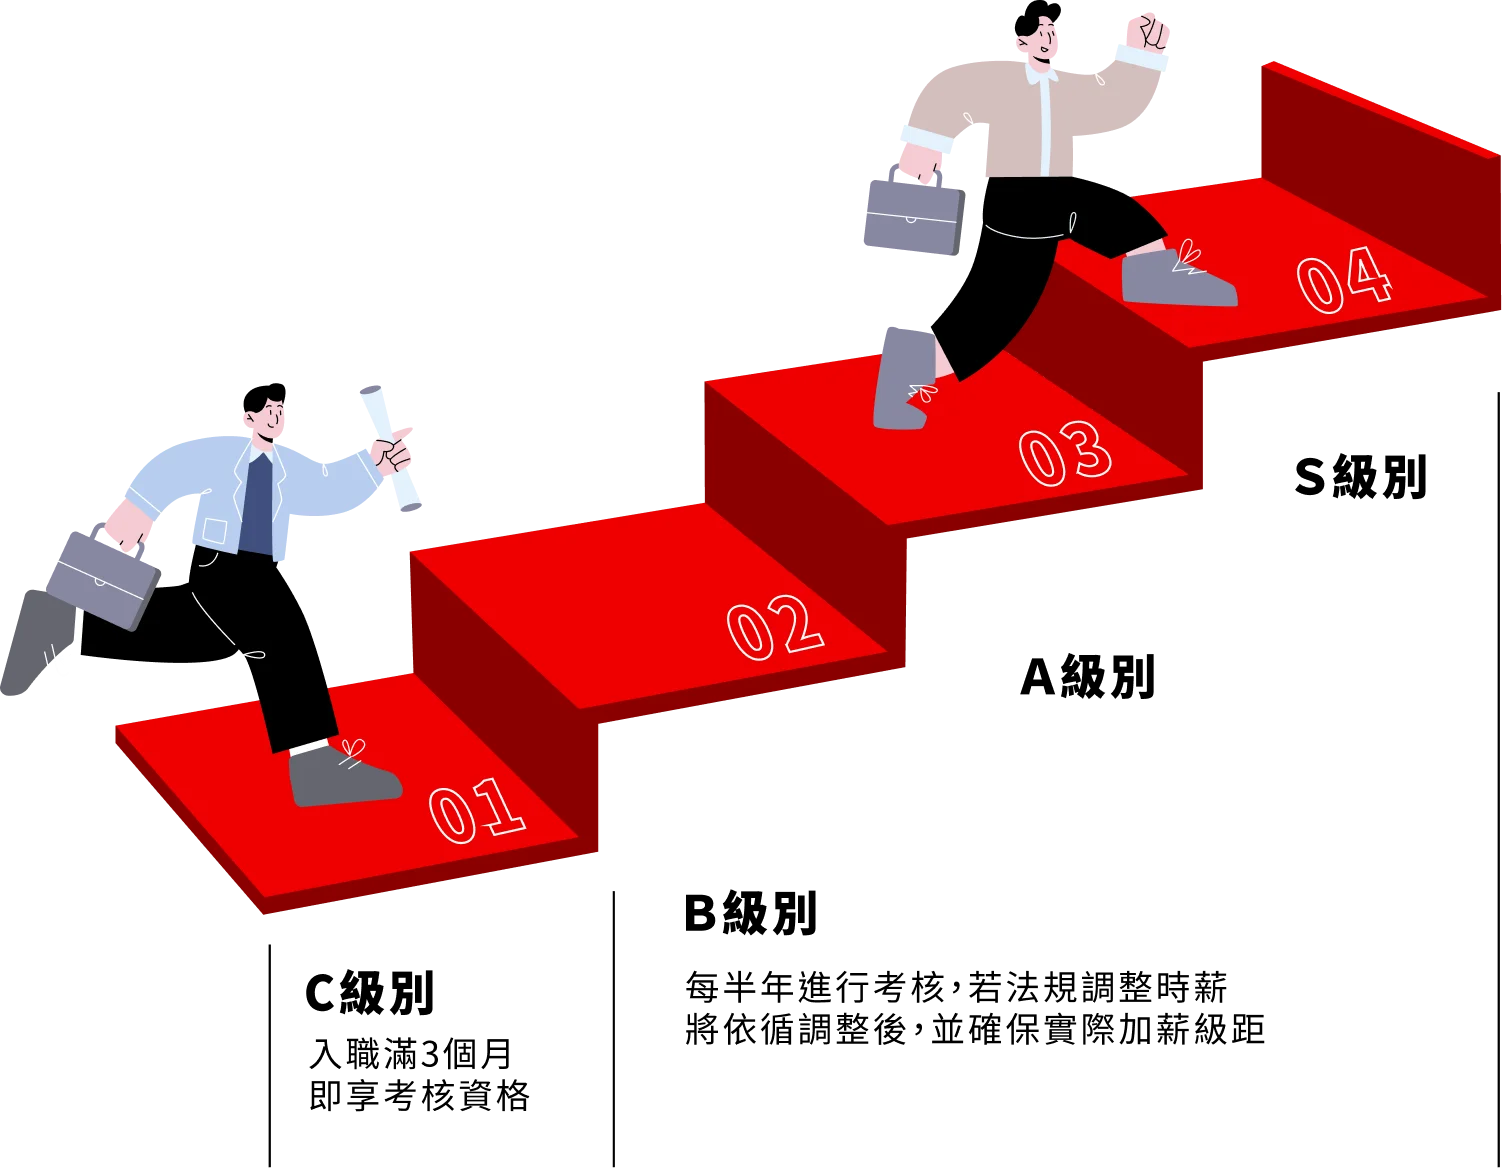
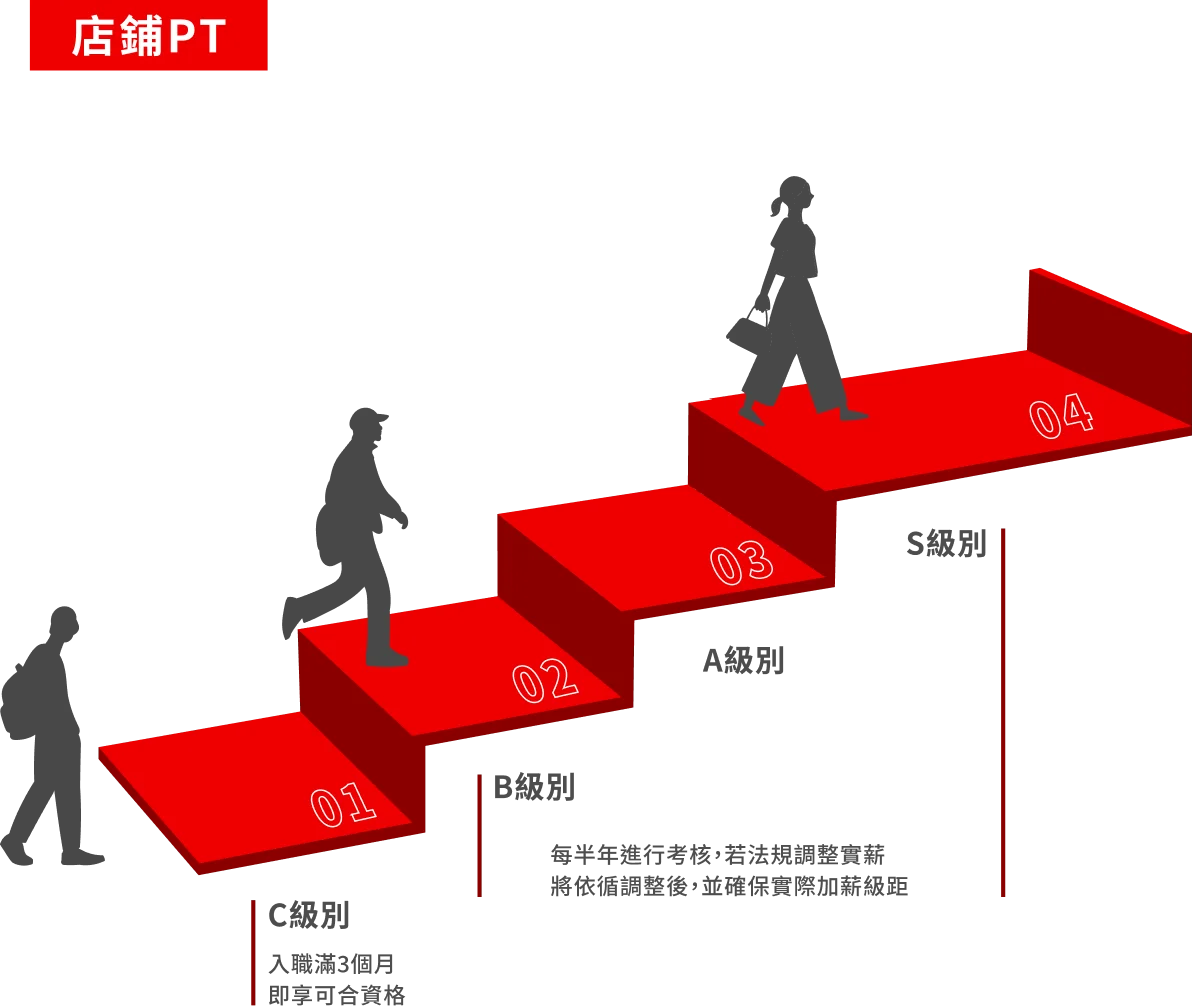
feat: evaluation 三張階梯圖依新素材與設計稿調整（桌機＋行動）
- 新素材已內含紅 tag（店鋪PT/店鋪/本部）→ 移除 HTML .eval-track__tag 疊加
- 修正檔名 headquater→headquarter（原為錯字），刪舊檔
- 桌機依設計重量測：pt 358/1191、ft 382/1179、hq 383/1179，垂直對齊（0/0/0）
- 行動版依手機設計稿：pt643/ft630/hq623 置中，垂直對齊（0/+5/0）

diff --git a/css/style.css b/css/style.css
@@ -3962,7 +3962,7 @@ section {
     .eval-part-time .highlight-line {
         width: 2px;
         height: 130px;
-        margin: 170px auto 24px;
+        margin: 122px auto 24px;
     }
 
     /* --- Section header（中文標題 + 紅色英文副標） --- */
@@ -3999,34 +3999,34 @@ section {
         height: auto;
     }
 
-    /* 店鋪PT：tag 與階梯圖之間留空（設計稿圖頂距 tag 頂 95px） */
+    /* 店鋪PT：新素材含 tag，整張置中 */
     .eval-pt {
         aspect-ratio: auto;
     }
 
     .eval-pt__img {
-        width: 656px;
-        margin: 95px auto 0;
+        width: 643px;
+        margin: 0 auto;
     }
 
-    /* 店鋪（正職）：階梯圖頂與 tag 同高，tag 直接疊圖上 */
+    /* 店鋪（正職）：新素材含 tag */
     .eval-ft {
         aspect-ratio: auto;
     }
 
     .eval-ft__img {
-        width: 618px;
+        width: 630px;
         margin: 0 auto;
     }
 
-    /* 本部 */
+    /* 本部：新素材含 tag */
     .eval-hq {
         aspect-ratio: auto;
-        margin-top: 146px;
+        margin-top: 74px;
     }
 
     .eval-hq__img {
-        width: 620px;
+        width: 623px;
         margin: 0 auto;
     }
 
@@ -5710,11 +5710,11 @@ section {
     }
 
     .eval-part-time .eval-section-header {
-        margin-bottom: min(15.8854vw, 305px);
+        margin-bottom: min(7.8646vw, 151px);
     }
 
     .eval-full-time .eval-section-header {
-        margin-bottom: min(6.4063vw, 123px);
+        margin-bottom: min(8.8542vw, 170px);
     }
 
     /* ----------------------------------------
@@ -5739,38 +5739,26 @@ section {
         height: auto;
     }
 
-    /* --- 店鋪PT：tag y3012–3082、圖 x357 寬 1192（y3188–4017） --- */
-    .eval-pt__tag {
-        margin-left: min(20.2083vw, 388px);
-    }
-
+    /* --- 店鋪PT：新素材含 tag，圖 x358 寬 1191 --- */
     .eval-pt__img {
-        width: min(62.0833vw, 1192px);
-        margin: min(5.5208vw, 106px) 0 0 min(18.5938vw, 357px);
+        width: min(62.0313vw, 1191px);
+        margin: 0 0 0 min(18.6458vw, 358px);
     }
 
-    /* --- 店鋪（正職）：tag y4930–5001、圖 x418 寬 1144（y5099–6088） --- */
-    .eval-ft__tag {
-        margin-left: min(19.8958vw, 382px);
-    }
-
+    /* --- 店鋪（正職）：新素材含 tag，圖 x382 寬 1179 --- */
     .eval-ft__img {
-        width: min(59.5833vw, 1144px);
-        margin: min(5.1042vw, 98px) 0 0 min(21.7708vw, 418px);
+        width: min(61.4063vw, 1179px);
+        margin: 0 0 0 min(19.8958vw, 382px);
     }
 
-    /* --- 本部：tag y6403–6473、圖 x414 寬 1148（y6582–7548） --- */
+    /* --- 本部：新素材含 tag，圖 x383 寬 1179 --- */
     .eval-hq {
-        margin-top: min(16.4063vw, 315px);
-    }
-
-    .eval-hq__tag {
-        margin-left: min(19.8958vw, 382px);
+        margin-top: min(15.8333vw, 304px);
     }
 
     .eval-hq__img {
-        width: min(59.7917vw, 1148px);
-        margin: min(5.6771vw, 109px) 0 0 min(21.5625vw, 414px);
+        width: min(61.4063vw, 1179px);
+        margin: 0 0 0 min(19.9479vw, 383px);
     }
 
     /* ----------------------------------------

diff --git a/evaluation.html b/evaluation.html
@@ -96,7 +96,6 @@
         </div>
 
         <div class="eval-track eval-pt">
-            <span class="eval-track__tag eval-pt__tag">店鋪PT</span>
             <img class="eval-track__img eval-pt__img" src="assets/images/evaluation/part-time.webp"
                  alt="兼職人員（店鋪PT）升遷階梯示意圖：C級別、B級別、A級別、S級別" loading="lazy">
 
@@ -114,7 +113,6 @@
 
         <!-- 店鋪 -->
         <div class="eval-track eval-ft">
-            <span class="eval-track__tag eval-ft__tag">店鋪</span>
             <img class="eval-track__img eval-ft__img" src="assets/images/evaluation/full-time.webp"
                  alt="正職人員（店鋪）升遷階梯示意圖：正職社員、店長、區經理" loading="lazy">
 
@@ -123,8 +121,7 @@
 
         <!-- 本部 -->
         <div class="eval-track eval-hq">
-            <span class="eval-track__tag eval-hq__tag">本部</span>
-            <img class="eval-track__img eval-hq__img" src="assets/images/evaluation/headquater.webp"
+            <img class="eval-track__img eval-hq__img" src="assets/images/evaluation/headquarter.webp"
                  alt="正職人員（本部）升遷階梯示意圖：正職社員、專員、資深專員、副理、經理" loading="lazy">
 
 